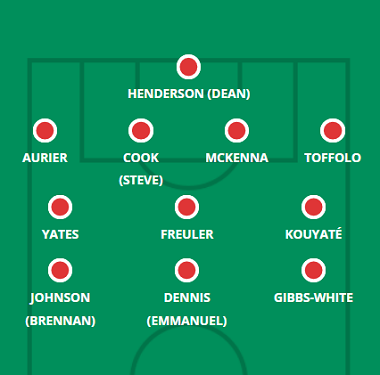
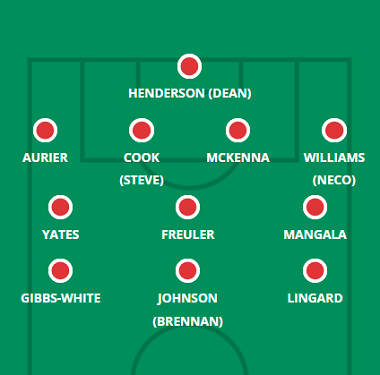
nforest

diff --git a/nforest.html b/nforest.html
@@ -68,7 +68,7 @@
             <hgroup>
                 <h1> Provável Escalação</h1>
                 <h2 class="direita"> por FabioVascão </h2>
-                <h3 class="direita"> Atualizado em 13/Outubro/2022 </h3>
+                <h3 class="direita"> Atualizado em 21/Outubro/2022 </h3>
             </hgroup>
     
             <h2 class="time"> <img src="_fotos/_logos/logonforest.png" />Nottingham Forest</h2>
@@ -77,9 +77,9 @@
                     <img src="_fotos/_dinamicas/nforest.png" />
                 </figure>
             </aside>
-                <div class="escalacao"><h2 class="titulo">Ultimas Notícias</h2> <h4><p>Omar Richards (lesão na perna), Moussa Niakhate (lesão múscular) e Jack Colback (lesão nas costas) novamente parecem perdidos, mas não há outras preocupações físicas conhecidas para Forest, com Steve Cooper dizendo que sua equipe saiu ilesa do empate de segunda-feira com o Aston Villa. Esse ponto contra os Villans encerrou uma série de cinco derrotas consecutivas, então, após um período de constantes ajustes com seus novos recrutas, Cooper pode optar por dar outra chance ao time da 10° Rodada, especialmente com Forest parecendo mais sólido em um novo esquema 4-3-3. Cheikhou Kouyate parece ser o elo mais fraco no meio-campo e Cooper tem Lewis O'Brien e Orel Mangala esperando nas laterais, enquanto Taiwo Awoniyi, Sam Surridge e Jesse Lingard são alternativas no ataque - e é a falta de criatividade que estará no topo da lista de tarefas de Cooper após uma exibição defensiva aprimorada. Enquanto isso, Neco Williams e Renan Lodi foram demitidos como laterais, com os elogios de Cooper a Serge Aurier na quinta-feira sugerindo que o ex-jogador dos Spurs mantém seu lugar em Molineux. Mesmo que Cooper permaneça inalterado no sábado, Forest enfrentará mais duas partidas da liga em rápida sucessão e mudanças podem ocorrer nas semanas 12 e/ou 13.</p></h4><br>
-                    <h4><strong>Jogadores fora da próxima partida:</strong> Niakhaté , Richards e Samba</h4><br><br>
-                    <h4><strong>Jogadores dúvidas:</strong> Colback </h4>
+                <div class="escalacao"><h2 class="titulo">Ultimas Notícias</h2> <h4><p>Omar Richards (perna), Moussa Niakhate (músculo) e Jack Colback (costas) novamente parecem estar de fora com base nos comentários pré-jogo de Steve Cooper, enquanto Harry Toffolo se juntou a eles à margem depois de sofrer uma lesão no tendão na 12° Rodada Lewis O'Brien também parece improvável de se recuperar do covid, enquanto não houve atualização sobre Renan Lodi (tornozelo) no pré-jogo de Cooper na quinta-feira. O Forest emergiu da viagem no meio da semana ao Amex com um ponto louvável, mas enquanto o lado defensivo de seu jogo continua a melhorar, houve novamente uma falta de impulso ofensivo contra o Brighton. Taiwo Awoniyi, Sam Surridge e Emmanuel Dennis são atacantes mais naturais em comparação com o trio que alinhou contra os Seagulls, com o lugar de Jesse Lingard parecendo o mais arriscado, já que Brennan Johnson é um titular sempre presente nesta temporada e Morgan Gibbs-White não está no banco desde sua estreia completa na 4° Rodada. A rotação é sempre uma possibilidade nesta semana de três jogos, mas o Forest tem pelo menos o benefício de 24 horas extras de recuperação em comparação com o adversário Liverpool, enquanto Cooper falou de mudanças no jogo para gerenciar os minutos da dupla de encaixe Orel Mangala e Serge Aurier. Cheikhou Kouyate e Giuilian Biancone são as alternativas a essa dupla se não forem considerados prontos para partidas sucessivas. Kouyate, Joe Worrall e Willy Boly também são opções como terceiro zagueiro, caso Cooper volte a um sistema de lateral para a visita das tropas de Jurgen Klopp.</p></h4><br>
+                    <h4><strong>Jogadores fora da próxima partida:</strong> Niakhaté , Richards e Toffolo</h4><br><br>
+                    <h4><strong>Jogadores dúvidas:</strong> Colback, Lodi e O'Brien </h4>
                 </div> 
         </header>
         </article>
